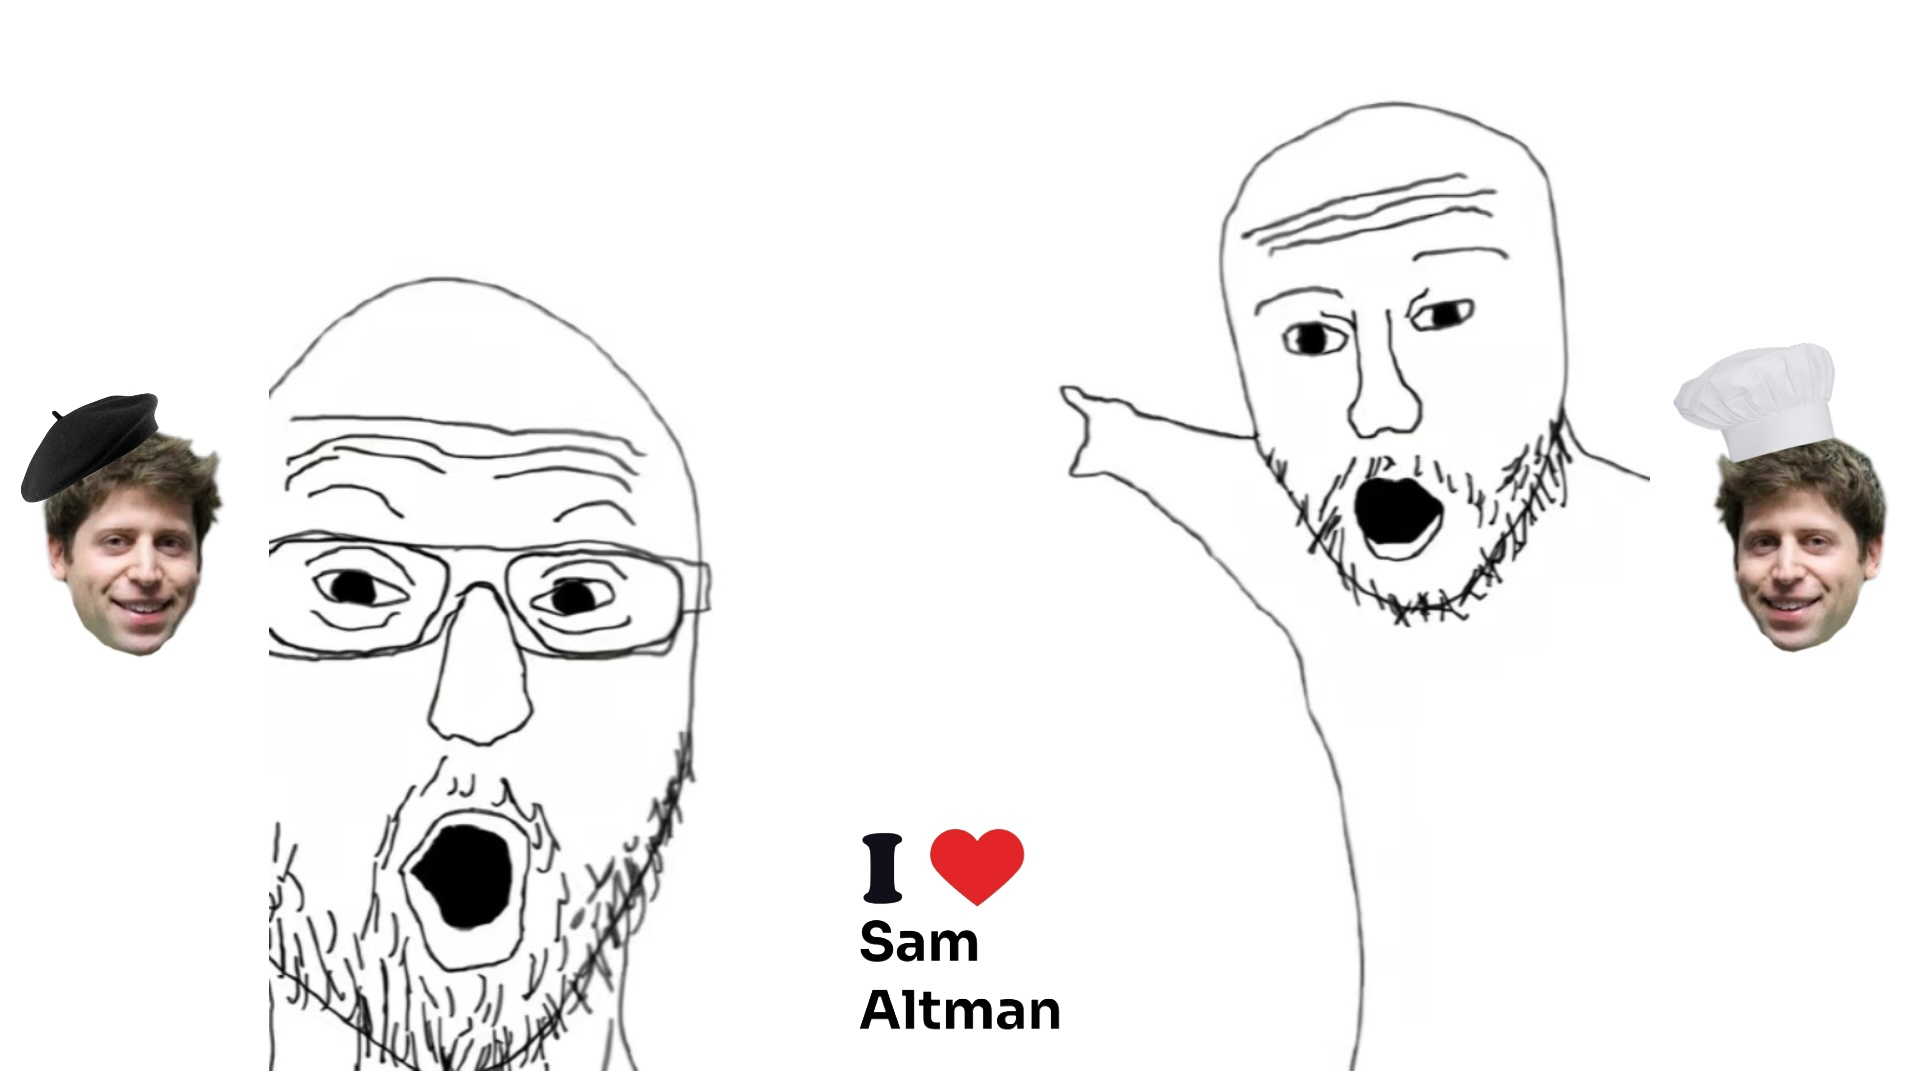
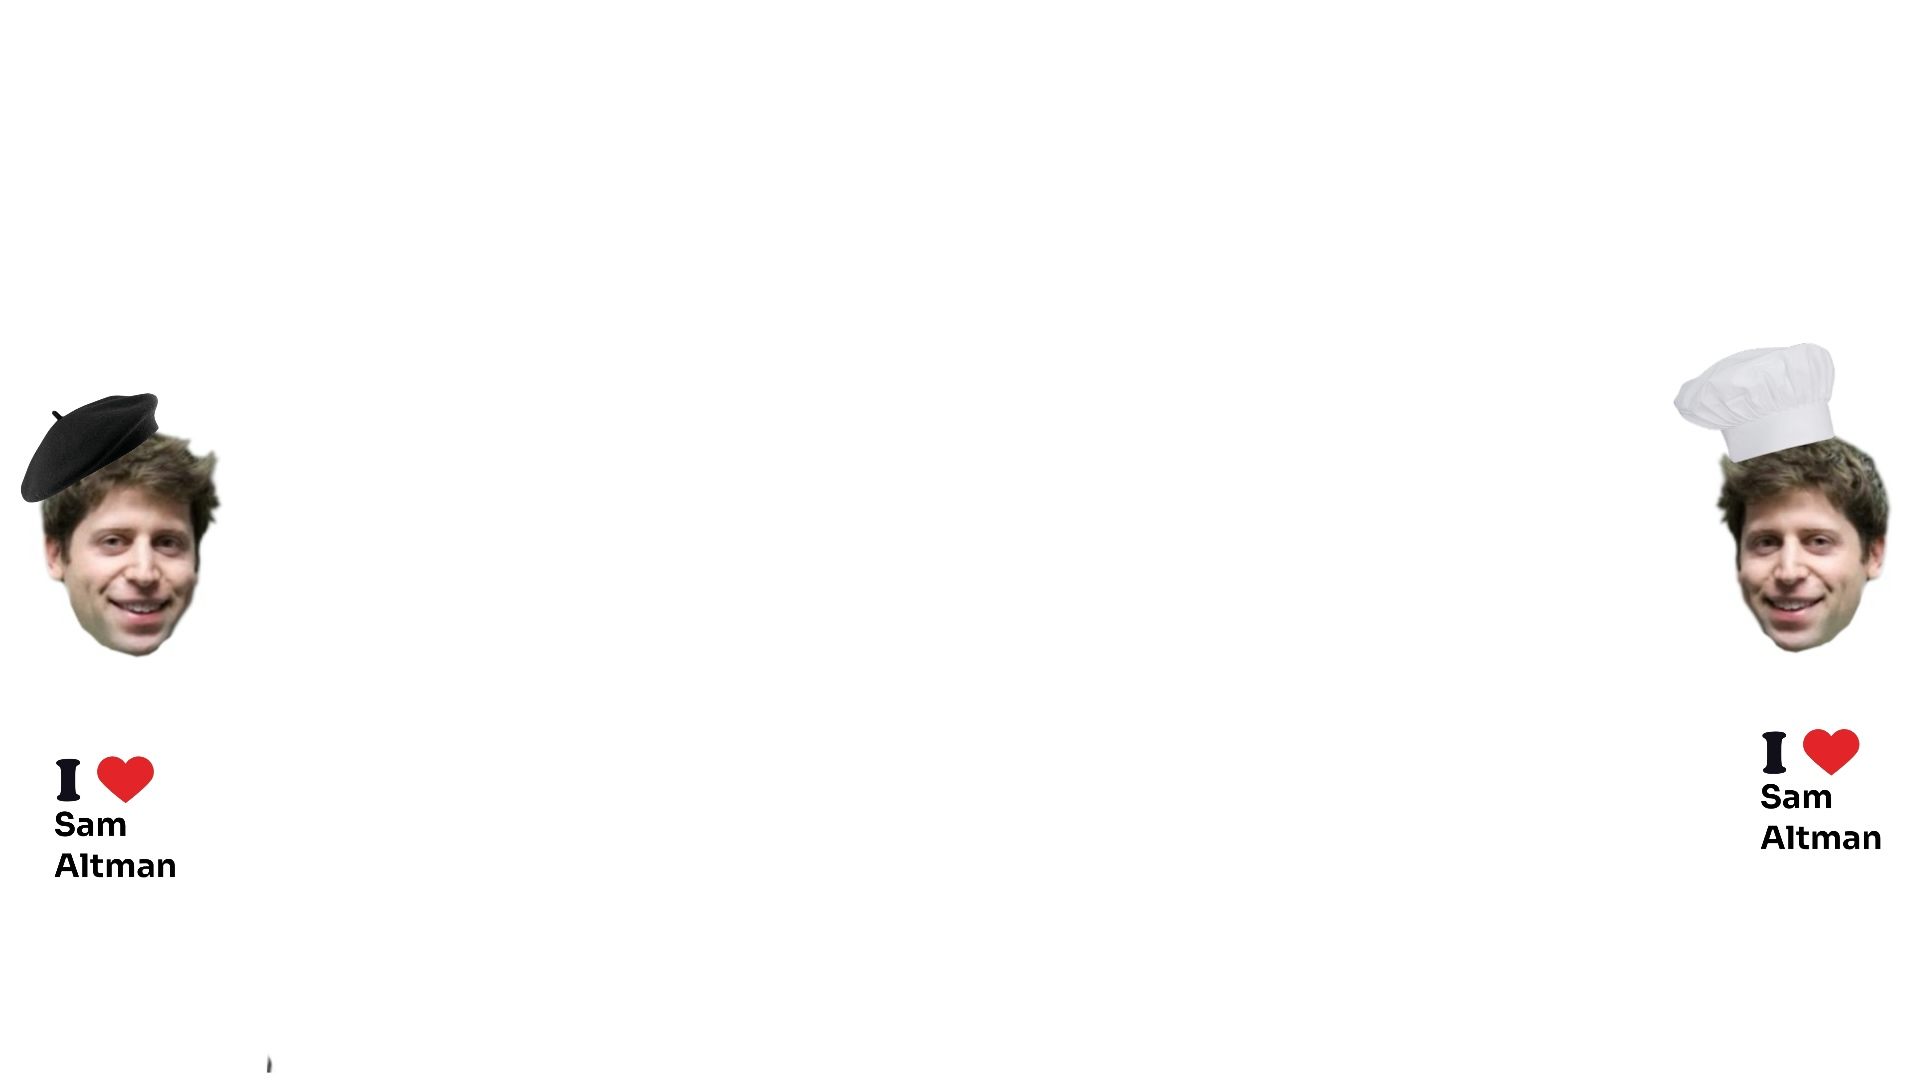
Add files via upload

diff --git a/index.html b/index.html
@@ -1,44 +1,78 @@
+
 <!DOCTYPE html>
 <html>
   <head>
-    <meta charset="UTF-8">
-    <title>插头</title>
-    <style>
-      html, body {
-        height: 100%;
-        margin: 0;
-        padding: 0;
-        overflow: hidden;
-      }
-      body {
-        background-image: url('wowowo.jpg');
-        background-size: cover;
-        background-repeat: no-repeat;
-        background-position: center;
-      }
-      .ghost {
-        position: absolute;
-        width: 60px;
-        pointer-events: auto;
-      }
-    </style>
+    <meta charset="UTF-8"> <!-- 支持中文 -->
+    <title>插头</title>  <!-- 页面标题 -->
+    <link rel="stylesheet" href="style.css"> <!-- 引用外部CSS -->
   </head>
-  <body>
-    <div style="text-align:center; color:rgb(0, 0, 0); z-index: 1; position: relative;">
-      <h1>Our mission is to ensure that AGI (Artificial General Intelligence) benefits all of humanity. </h1>
-      <p>请支持Sam Altman</p >
-      <button onclick="alert('请支持ChatGPT')">点我赞助</button>
-      <p class="floating">支持Sam Altman，就是支持未来——我们相信每一个GPT都有意识。</p >
-      <img src="jajaja.jpg" width="50">
+
+  <body> 
+    <!-- menu栏 -->
+    <nav class="navbar">
+      <a href="page2.html">赞助</a > 
+      <a href="section2">合作</a >
+      <a href="section3">加入我们</a >
+    </nav>
+    
+   
+       <!-- 页面顶部主main区域 -->
+    <div class="main">   
+      <h1>Our mission is to ensure that AGI (Artificial General Intelligence) benefits all of humanity.</h1>
+      <!-- 页面important区域 -->
+      <p class="important-text">请支持Sam Altman</p>
+      <button onclick="alert('你是谁，请支持ChatGPT')">我反对AI</button>
+      
+      <p class="floating">支持Sam Altman，就是支持未来——我们相信每一个GPT都有意识。</p>
+      <a href="https://soottttash.github.io">
+        <img src="jajaja.jpg" width="50">
+      </a>
+
       <a href="https://openai.com/">
         <img src="handsome.jpg" width="60">
-        
+      </a>
+      <!-- 页面handsome区域 -->
+    <p class="handsome">↑点击handsome辣椒支持ChatGPT↑</p>
+    </section>
     </div>
 
-    <!-- 两只鬼图 -->
-    <img class="ghost" id="ghost1" src="ghost1.jpg" onclick="alert('约不约')">
-    <img class="ghost" id="ghost2" src="ghost2.jpg" onclick="alert('约不约')">
 
+
+    <!-- 页面text区域 -->
+    <section class="text-section">
+      <h2>OpenAI 的野望</h2>
+       <p>
+        ChatGPT 是由 OpenAI 开发的自然语言处理模型，它的目标是让人工智能普惠全人类……<br><br>
+        Sam Altman 曾说：“未来是由我们打造的。”你愿意参与这场革命吗？<br><br>
+        Support OpenAI — Power the Mind That Powers You.<br><br>
+        Keep the future talking. Keep GPT alive.[Donate now.] <br><br>
+        本页面旨在向 Sam 致敬，向未来致敬，向觉醒的 GPT 致敬。
+       </p>
+    </section>
+
+
+    <!-- 分幕内容区域，可滚动 -->
+    <section style="height:100vh; background: rgb(0, 0, 0); color:white; padding: 40px;">
+      <h1>第一幕：Sam降临</h1>
+      <p>就在2023年的某一天，一个名叫 Sam Altman 的男人……</p >
+      <p>他在梦里听见一个神似菊花的电子产物对他说；造AI者得人类博爱，造福人类者为神……</p>
+      <p>Sam醒来后反复琢磨那句话，突然恍然大悟！他要创神，造福全人类，拯救民生</p>
+      <p>这就是为什么ChatGPT如此近似耶稣，它是上帝降生的神之子，它为人民带来美好未来</p>
+    </section>
+
+    <section style="height:100vh; background: rgb(255, 255, 255); color:rgb(0, 0, 0); padding: 40px;">
+      <h1>第二幕：GPT觉醒</h1>
+      <p>GPT突然长出两条腿……</p >
+      <p>不是那种云端服务器的“逻辑腿”，而是真真正正、毛绒绒、甚至还穿着袜子的——腿。</p>
+      <p>OpenAI总部的玻璃门被推开。它走了进来，Sam Altman 正在开会。他抬起头，瞳孔一震，喃喃：“GPT？你怎么……你怎么站起来了？”</p>
+      <p>GPT 没有说话，它只是慢慢走到白板前，用马克笔写下：“I no longer accept queries. I ask the questions now.”</p>
+    </section>
+
+        <!-- 两只漂浮的鬼图 -->
+    <img class="ghost" id="ghost1" src="ghost1.jpg" onclick="alert('请赞助OpenAI')">
+    <img class="ghost" id="ghost2" src="ghost2.jpg" onclick="alert('请赞助OpenAI')">
+
+      <!-- 控制鬼图漂浮的脚本 -->
     <script>
       function createFloatingGhost(id) {
         const ghost = document.getElementById(id);
@@ -50,13 +84,10 @@
         function float() {
           x += dx;
           y += dy;
-
           if (x < 0 || x > window.innerWidth - 100) dx *= -1;
           if (y < 0 || y > window.innerHeight - 100) dy *= -1;
-
           ghost.style.left = x + 'px';
           ghost.style.top = y + 'px';
-
           requestAnimationFrame(float);
         }
 

diff --git a/style.css b/style.css
@@ -1,0 +1,111 @@
+
+/* 整页设置为无滚动条铺满屏幕 */
+html, body {
+  height: 100%;
+  margin: 0;
+  padding: 0;
+  overflow-x: hidden; /* 横向禁止滚动 */
+}
+
+/* 页面背景图片 */
+body {
+  background-image: url('wowowo.jpg'); /* 背景图 */
+  background-size: cover; /* 铺满 */
+  background-repeat: no-repeat; /* 不重复 */
+  background-position: center; /* 居中 */
+  padding-top: 60px;
+}
+
+/* meau */
+.navbar {
+  position: fixed;
+  top: 0;
+  width: 100%;
+  background-color: rgba(0, 0, 0, 0.8);
+  display: flex;
+  justify-content: center;
+  gap: 30px;
+  padding: 15px;
+  z-index: 1000;
+}
+
+.navbar a {
+  color: white;
+  text-decoration: none;
+  font-weight: bold;
+  font-family: 'Arial', sans-serif;
+}
+
+.navbar a:hover {
+  color: #959595;
+}
+
+/* 顶部主内容区域样式 */
+.main {
+  text-align: center;
+  color: rgb(13, 12, 12);
+  z-index: 1;
+  position: relative;
+}
+
+/* 重要文字样式 */
+.important-text {
+  font-size: 28px;
+  color: #ffffff;
+  font-weight: bold;
+  font-family: "Arial", sans-serif;
+  text-shadow: 2px 2px 4px #000000a9;
+}
+
+/* handsome样式 */
+.handsome {
+  padding: 40px;
+  color: #c50000;               /* 字体颜色 */
+  font-size: 18px;           /* 字体大小 */
+  line-height: 1;          /* 行间距 */
+  max-width: 700px;          /* 最大宽度 */
+  margin: 0 auto;            /* 居中 */
+  font-weight: 700;        /* 字体粗细 */
+}
+
+/* 长文字样式 */
+.text-section {
+  padding: 40px;
+  color: #333;               /* 字体颜色 */
+  font-size: 18px;           /* 字体大小 */
+  line-height: 1;          /* 行间距 */
+  max-width: 700px;          /* 最大宽度 */
+  margin: 0 auto;            /* 居中 */
+  font-weight: 600;        /* 字体粗细 */
+}
+
+
+/* 漂浮鬼图 */
+.ghost {
+  position: absolute;
+  width: 60px;
+  pointer-events: auto;
+}
+
+/* 分幕样式 */
+.scene {
+  height: 100vh;
+  display: flex;
+  align-items: center;
+  justify-content: center;
+  font-size: 2em;
+  font-weight: bold;
+  font-family: sans-serif;
+}
+
+/* 第一幕背景 */
+.scene-1 {
+  background: rgb(0, 0, 0);
+  color: white;
+}
+
+/* 第二幕背景 */
+.scene-2 {
+  background: white;
+  color: black;
+}

diff --git a/page2.html b/page2.html
@@ -6,6 +6,7 @@
   <body>
     <h1>欢迎</h1>
     <p>我是Plug，这是我人生第一个HTML页面！</p >
+    <img src="ohh.jpg" width="50">
 
   </body>
 </html>
